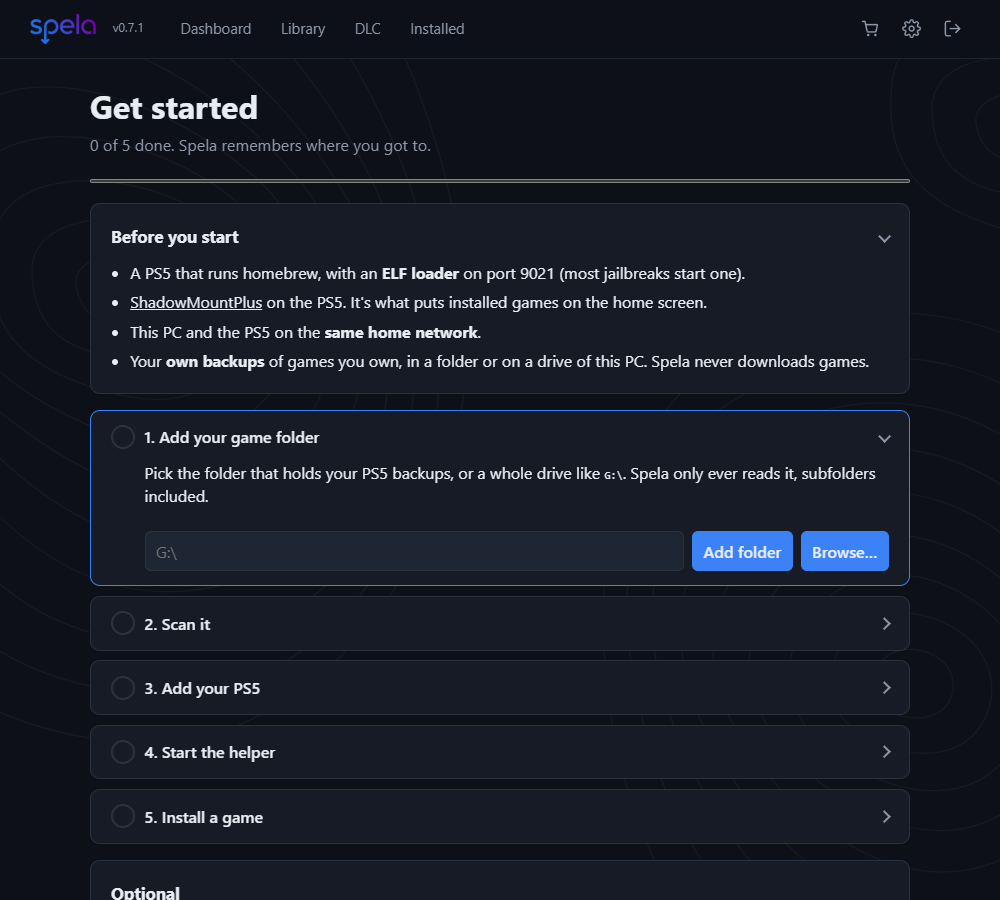
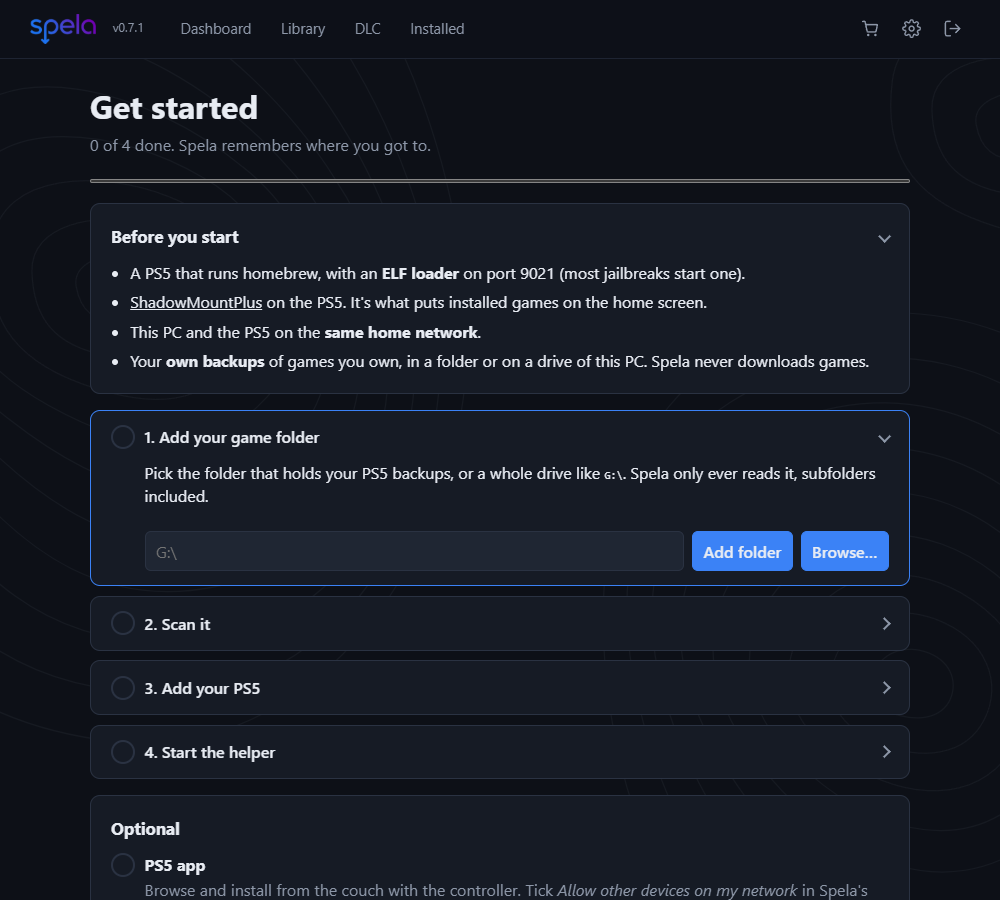
feat: end the setup guide at the helper
The Install a game step ticked by itself on a console that already had
games, and there's nothing left to set up once the helper runs. The
guide now has four steps and ends by pointing to Install.

Changelog: skip

Changed region(s): [[0.093, 0.9022, 0.868, 1.0]]

diff --git a/frontend/src/Setup.tsx b/frontend/src/Setup.tsx
@@ -13,12 +13,10 @@ export interface SetupState {
   scan: boolean;
   console: boolean;
   helper: boolean;
-  install: boolean;
   console_app: boolean;
   wake: boolean;
   dlc_folder: boolean;
   viewer: boolean;
-  suggest: { id: string; title: string } | null;
 }
 
 const STEPS = [
@@ -26,7 +24,6 @@ const STEPS = [
   ["scan", "Scan it"],
   ["console", "Add your PS5"],
   ["helper", "Start the helper"],
-  ["install", "Install a game"],
 ] as const;
 
 /** The setup state, re-read every 5 s: the console steps change on their own as the PS5 comes up. */
@@ -213,18 +210,13 @@ export default function Setup() {
       ? <p>Added: {consoles.map((c) => `${c.name} (${c.ip_address})`).join(", ")}. More in <a href="#/settings">Settings → Consoles</a>.</p>
       : <AddConsole onAdded={reload} />,
     helper: consoles.length ? <HelperStep consoles={consoles} reload={reload} /> : <p className="muted">Add your PS5 first.</p>,
-    install: <>
-      <p>Open a game, click <strong>Install</strong>, and follow the copy on the <a href="#/installed">Installed</a> page.
-        ShadowMountPlus puts it on the PS5's home screen when it's done.</p>
-      {state.suggest && <p>Try <a href={`#/game/${state.suggest.id}`}>{state.suggest.title}</a>, or pick one in the <a href="#/">Library</a>.</p>}
-    </>,
   };
 
   return (
     <div className="setup">
       <header className="setup-head">
         <h1>Get started</h1>
-        <p className="muted">{done === STEPS.length ? "You're all set." : `${done} of ${STEPS.length} done. Spela remembers where you got to.`}</p>
+        <p className="muted">{done === STEPS.length ? "You're all set. Open a game in your library and click Install." : `${done} of ${STEPS.length} done. Spela remembers where you got to.`}</p>
         <meter min={0} max={STEPS.length} value={done} aria-label="Setup progress" />
       </header>
 

diff --git a/backend/app/main.py b/backend/app/main.py
@@ -1136,24 +1136,19 @@ class ChecklistIn(BaseModel):
 @api.get("/setup", dependencies=[Depends(require_admin)])
 def setup_status(db: Session = Depends(get_db)):
     """How far first-run setup has come, worked out from what's already there, so the checklist picks up where the
-    user left off. `suggest` is a game that's ready to install, for the last step."""
+    user left off."""
     roots = list(db.scalars(select(LibraryRoot).where(LibraryRoot.enabled)))
     consoles = list(db.scalars(select(Console)))
-    suggest = db.scalar(select(Game).where(Game.kind == "game", Game.compatibility_status == "ready", Game.missing.is_(False))
-                        .order_by(Game.title).limit(1))
     return {
         "dismissed": config.SETUP_DISMISSED_FILE.exists(),
         "folder": any(r.kind == "game" and os.path.isdir(r.path) for r in roots),
         "scan": bool(db.scalar(select(Game.id).where(Game.kind == "game", Game.missing.is_(False)).limit(1))),
         "console": bool(consoles),
         "helper": any(inventory.status.get(c.id, {}).get("state") == "online" for c in consoles),
-        "install": bool(db.scalar(select(InstallJob.id).where(InstallJob.status == "success").limit(1))
-                        or db.scalar(select(InstalledGame.id).limit(1))),
         "console_app": any(c.helper_status.get("console_app") == __version__ for c in consoles),
         "wake": any(c.wake_secret_id for c in consoles),
         "dlc_folder": any(r.kind == "dlc" for r in roots),
         "viewer": config.VIEWER_PASSWORD_FILE.exists(),
-        "suggest": suggest and {"id": suggest.id, "title": suggest.title},
     }
 
 

diff --git a/docs/manual-test.md b/docs/manual-test.md
@@ -44,7 +44,7 @@ Also have ready:
 - [ ] On first run (an empty data folder: set `DATA_DIR` to a new folder), choose an admin password of at least 8 characters.
   **Expect:** you're logged in and land on **Get started**, with *Before you start* open and step 1 *Add your game folder* open below it.
 - [ ] Open **Dashboard**.
-  **Expect:** a *Finish setting up Spela* card with *0 of 5 done*. **Continue setup** goes back to the guide.
+  **Expect:** a *Finish setting up Spela* card with *0 of 4 done*. **Continue setup** goes back to the guide.
 - [ ] **Log out**, then log in with a wrong password 5 times.
   **Expect:** the 6th attempt says to wait a minute, and how to reset a forgotten password.
 - [x] After a minute, log in with the right password.
@@ -105,7 +105,7 @@ Also have ready:
 - [ ] Before running the jailbreak (restart the PS5 if the loader is already up), look at step 4.
   **Expect:** *Degraded*, "Your PS5 is on, but the helper isn't running yet.", with "Run your jailbreak…" under it.
 - [ ] Run the jailbreak's ELF loader on the PS5 and wait, without clicking anything.
-  **Expect:** within about a minute the PS5 shows the helper's notification, the console changes to *Online*, and step 4 is ticked.
+  **Expect:** within about a minute the PS5 shows the helper's notification, the console changes to *Online*, and step 4 is ticked. The guide says *4 of 4 done* with **Open your library**, and the Dashboard's setup card is gone.
 - [ ] In **Settings → Consoles**, click **Reinstall helper**.
   **Expect:** "Helper v… is running on …", and the console stays *Online*.
 - [x] Check the games already on the console.
@@ -137,8 +137,6 @@ For each of the folder dump, the disc image and the archive:
   **Expect:** refused with "Already queued" or "Already installed".
 - [ ] When it finishes, check the PS5 home screen.
   **Expect:** the game's tile appears within about a minute, with its store logo within about 3 minutes, and it launches.
-- [ ] After the first install, open **Get started** and the **Dashboard**.
-  **Expect:** the guide says *5 of 5 done* with **Open your library**, and the Dashboard's setup card is gone.
 
 Also check:
 
@@ -239,14 +237,14 @@ Also check:
 
 ## 17. Helper after a restart, checked copies, moving between drives
 
+- [ ] Restart the PS5, run the jailbreak so the ELF loader is up, and leave the app alone.
+  **Expect:** within about a minute the console shows the helper's notification, and the console turns *Online*. The activity log shows *Helper installed* with `automatic: True`.
 - [ ] In **Settings → Consoles**, click **Remove helper** and confirm.
   **Expect:** "The helper is stopped…", the console turns *Degraded* with "The helper is removed.", and `curl http://<PS5 IP>:7735/info` from the PC no longer connects. The activity log shows *Helper removed*.
 - [ ] Leave it alone for two minutes, with the ELF loader still running.
   **Expect:** the helper isn't sent again: no notification on the PS5, still *Degraded*.
 - [ ] Click **Install helper**.
   **Expect:** *Online* again. Restart the PS5 and run the jailbreak: the helper is sent by itself again, as before.
-- [ ] Restart the PS5, run the jailbreak so the ELF loader is up, and leave the app alone.
-  **Expect:** within about a minute the console shows the helper's notification, and the console turns *Online*. The activity log shows *Helper installed* with `automatic: True`.
 - [ ] Install a folder dump.
   **Expect:** its message ends with *All N files checked*.
 - [ ] On the **Installed** page, click the arrows on a folder-dump game on the internal drive and move it to a USB drive.

diff --git a/docs/user-guide.md b/docs/user-guide.md
@@ -10,7 +10,7 @@ Full spec: [project.md](../project.md). **Status:** Phases 1–5 done, Phase 6 (
 
 Double-click **Spela-<version>.exe**. It opens in its own window (Windows' built-in WebView2, not your browser) and runs in the background with an icon in the system tray. Closing the window keeps it running in the tray.
 Right-click the tray icon to **Open** it, **Open data folder**, **Restart** or **Quit**. Starting the .exe again while it's running brings its window back. The address http://127.0.0.1:8787 still works in a browser too.
-The first time, choose an admin password. The **setup guide** (*Get started*) opens next and takes you through adding your game folder, scanning it, adding the PS5, starting the helper and a first install. It works out from what's already set up which steps are done, so you can leave and come back. Until every step is done, a card on the **Dashboard** shows how far you've got; **Hide** removes it, and **Settings** links to the guide again. Without the guide: go to **Settings**, click **Browse…**, pick a folder or a whole drive (for example `G:\`), and click **Scan now**.
+The first time, choose an admin password. The **setup guide** (*Get started*) opens next and takes you through adding your game folder, scanning it, adding the PS5 and starting the helper. It works out from what's already set up which steps are done, so you can leave and come back. Until every step is done, a card on the **Dashboard** shows how far you've got; **Hide** removes it, and **Settings** links to the guide again. Without the guide: go to **Settings**, click **Browse…**, pick a folder or a whole drive (for example `G:\`), and click **Scan now**.
 A folder is scanned with all its subfolders. System folders such as `$RECYCLE.BIN` and `System Volume Information` are skipped.
 Each game in the library shows its poster, publisher, release year, genre and star rating from PlayStation Store, looked up by the game's title ID (no account needed) the first time its tile comes into view and kept in the `store` folder of the data folder. The poster is the game's portrait art, looked for in the US, then UK, then Japanese store, and in its other editions (a Deluxe Edition's art says so); only when none has any does the app make one from the game's landscape art and logo. A cover you upload yourself replaces the store's art. Games the store doesn't know show their own cover and are asked about again after a week.
 

diff --git a/README.md b/README.md
@@ -48,7 +48,7 @@ Browse them on your PC, install them to your console over your home network, rem
     <td width="50%"><img src="docs/screenshots/ps5-install.png" alt="The PS5 app's install dialog with a drive picker"><br><sub><b>Pick a drive</b> and press Cross. The one with the most free space is chosen for you.</sub></td>
   </tr>
   <tr>
-    <td colspan="2" align="center"><img src="docs/screenshots/setup.png" alt="The setup guide: five steps from adding a game folder to installing a game" width="70%"><br><sub><b>Setup guide</b>: the first run, one step at a time, picking up where you left off.</sub></td>
+    <td colspan="2" align="center"><img src="docs/screenshots/setup.png" alt="The setup guide: four steps from adding a game folder to starting the helper on the PS5" width="70%"><br><sub><b>Setup guide</b>: the first run, one step at a time, picking up where you left off.</sub></td>
   </tr>
 </table>
 
@@ -67,9 +67,8 @@ Browse them on your PC, install them to your console over your home network, rem
    - add your game folder (or a whole drive such as `G:\`) and scan it
    - add your PS5: Spela can find it on your network, or you type its IP address
    - run your jailbreak's ELF loader, and Spela sends its helper to the PS5 by itself
-   - install a game
 
-   You can leave halfway: the guide remembers where you got to, and stays on the Dashboard until you're done. When something goes wrong, it says what to check.
+   You can leave halfway: the guide remembers where you got to, and stays on the Dashboard until you're done. When something goes wrong, it says what to check. Then open a game and click **Install**.
 3. Optional: tick **Allow other devices on my network** in the tray menu, then click **Install PS5 app** under **Settings → Consoles** to get Spela on the console's home screen.
 
 Everything Spela knows is kept in `%LOCALAPPDATA%\Spela`. Your game files never are. The full walkthrough, backups, and a troubleshooting table are in the **[user guide](docs/user-guide.md)**.
